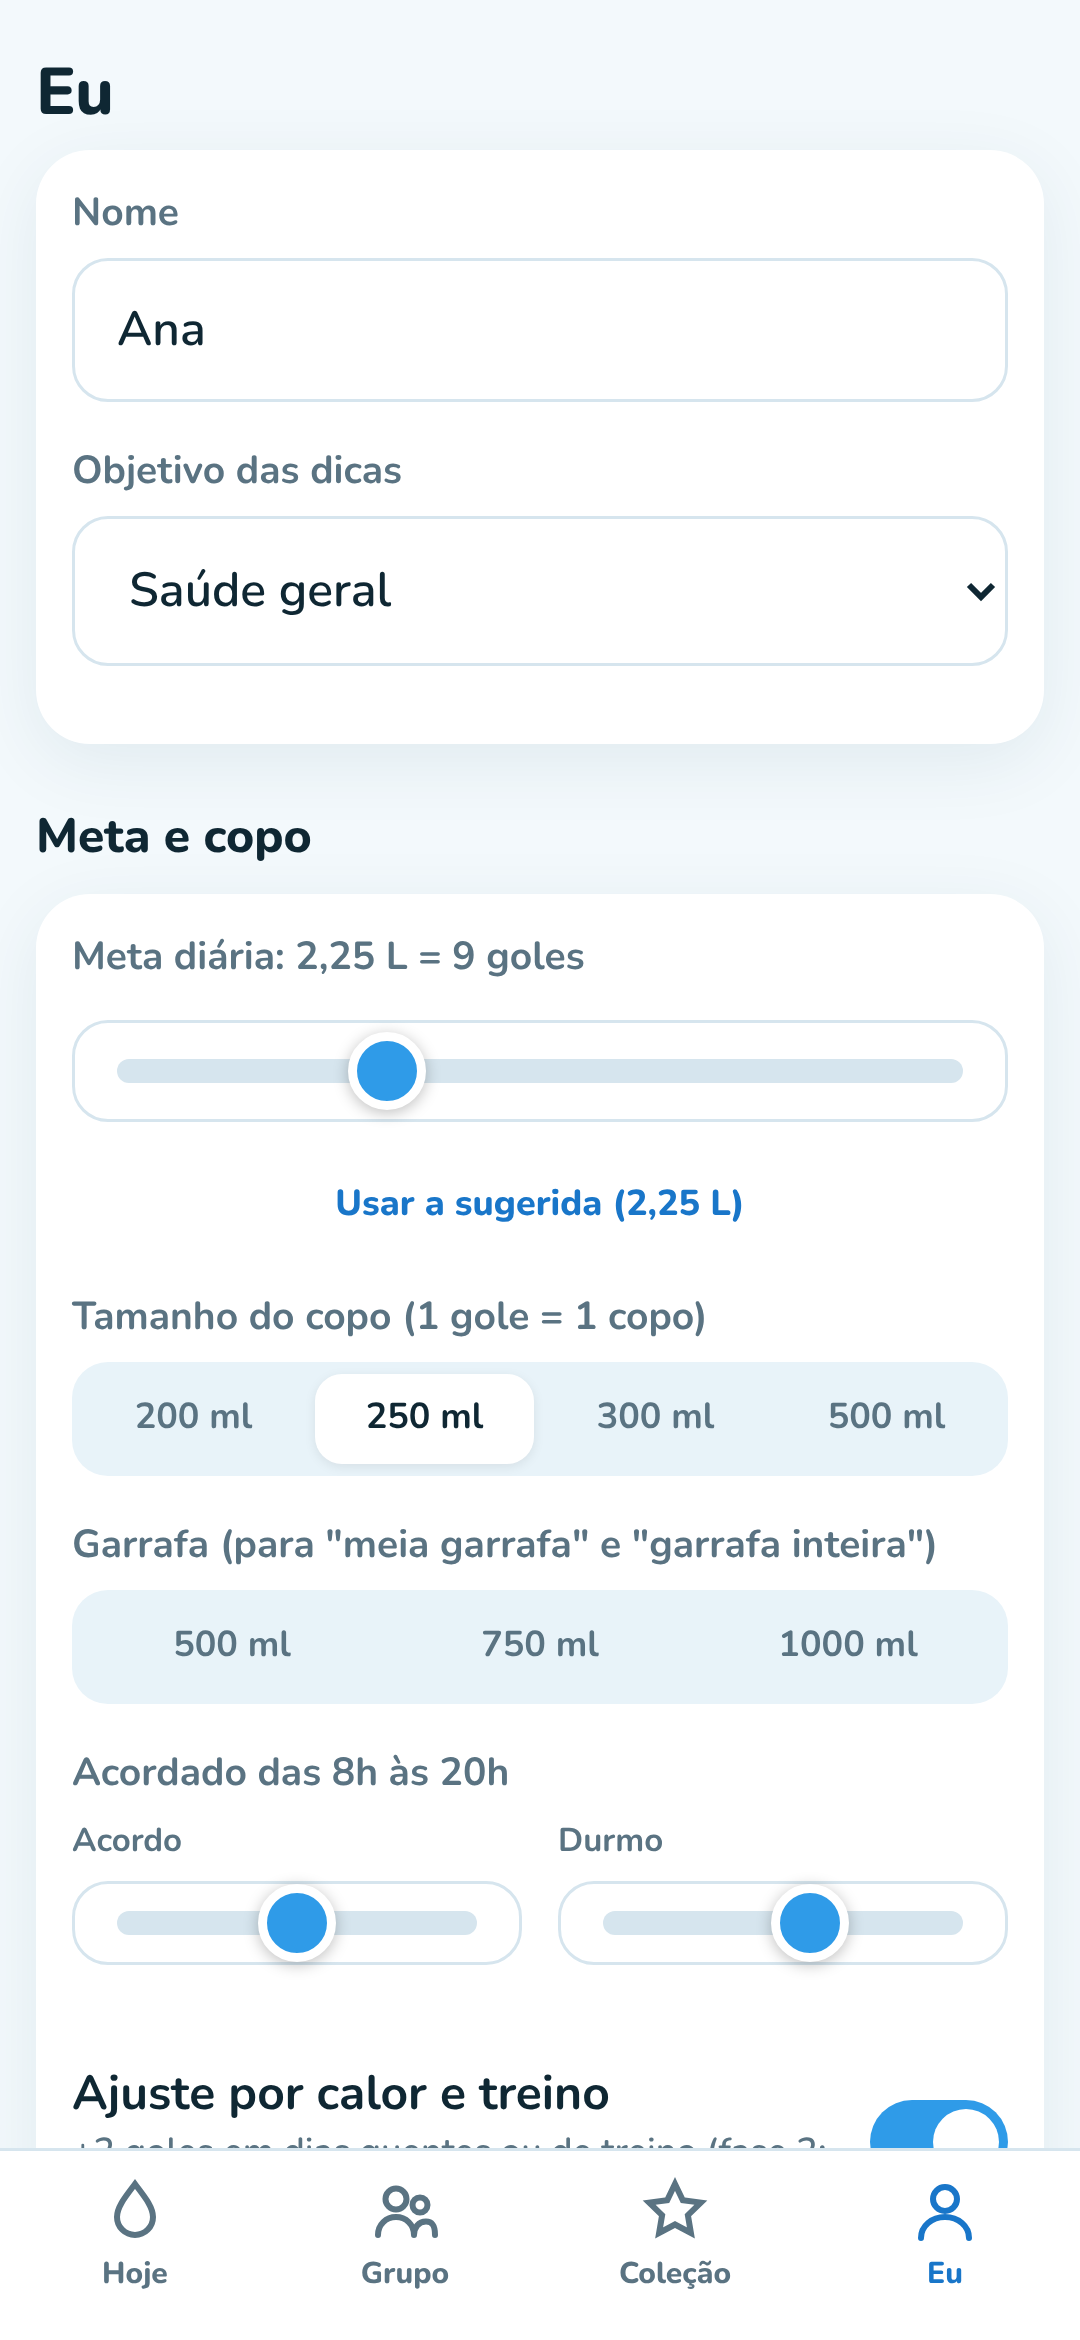
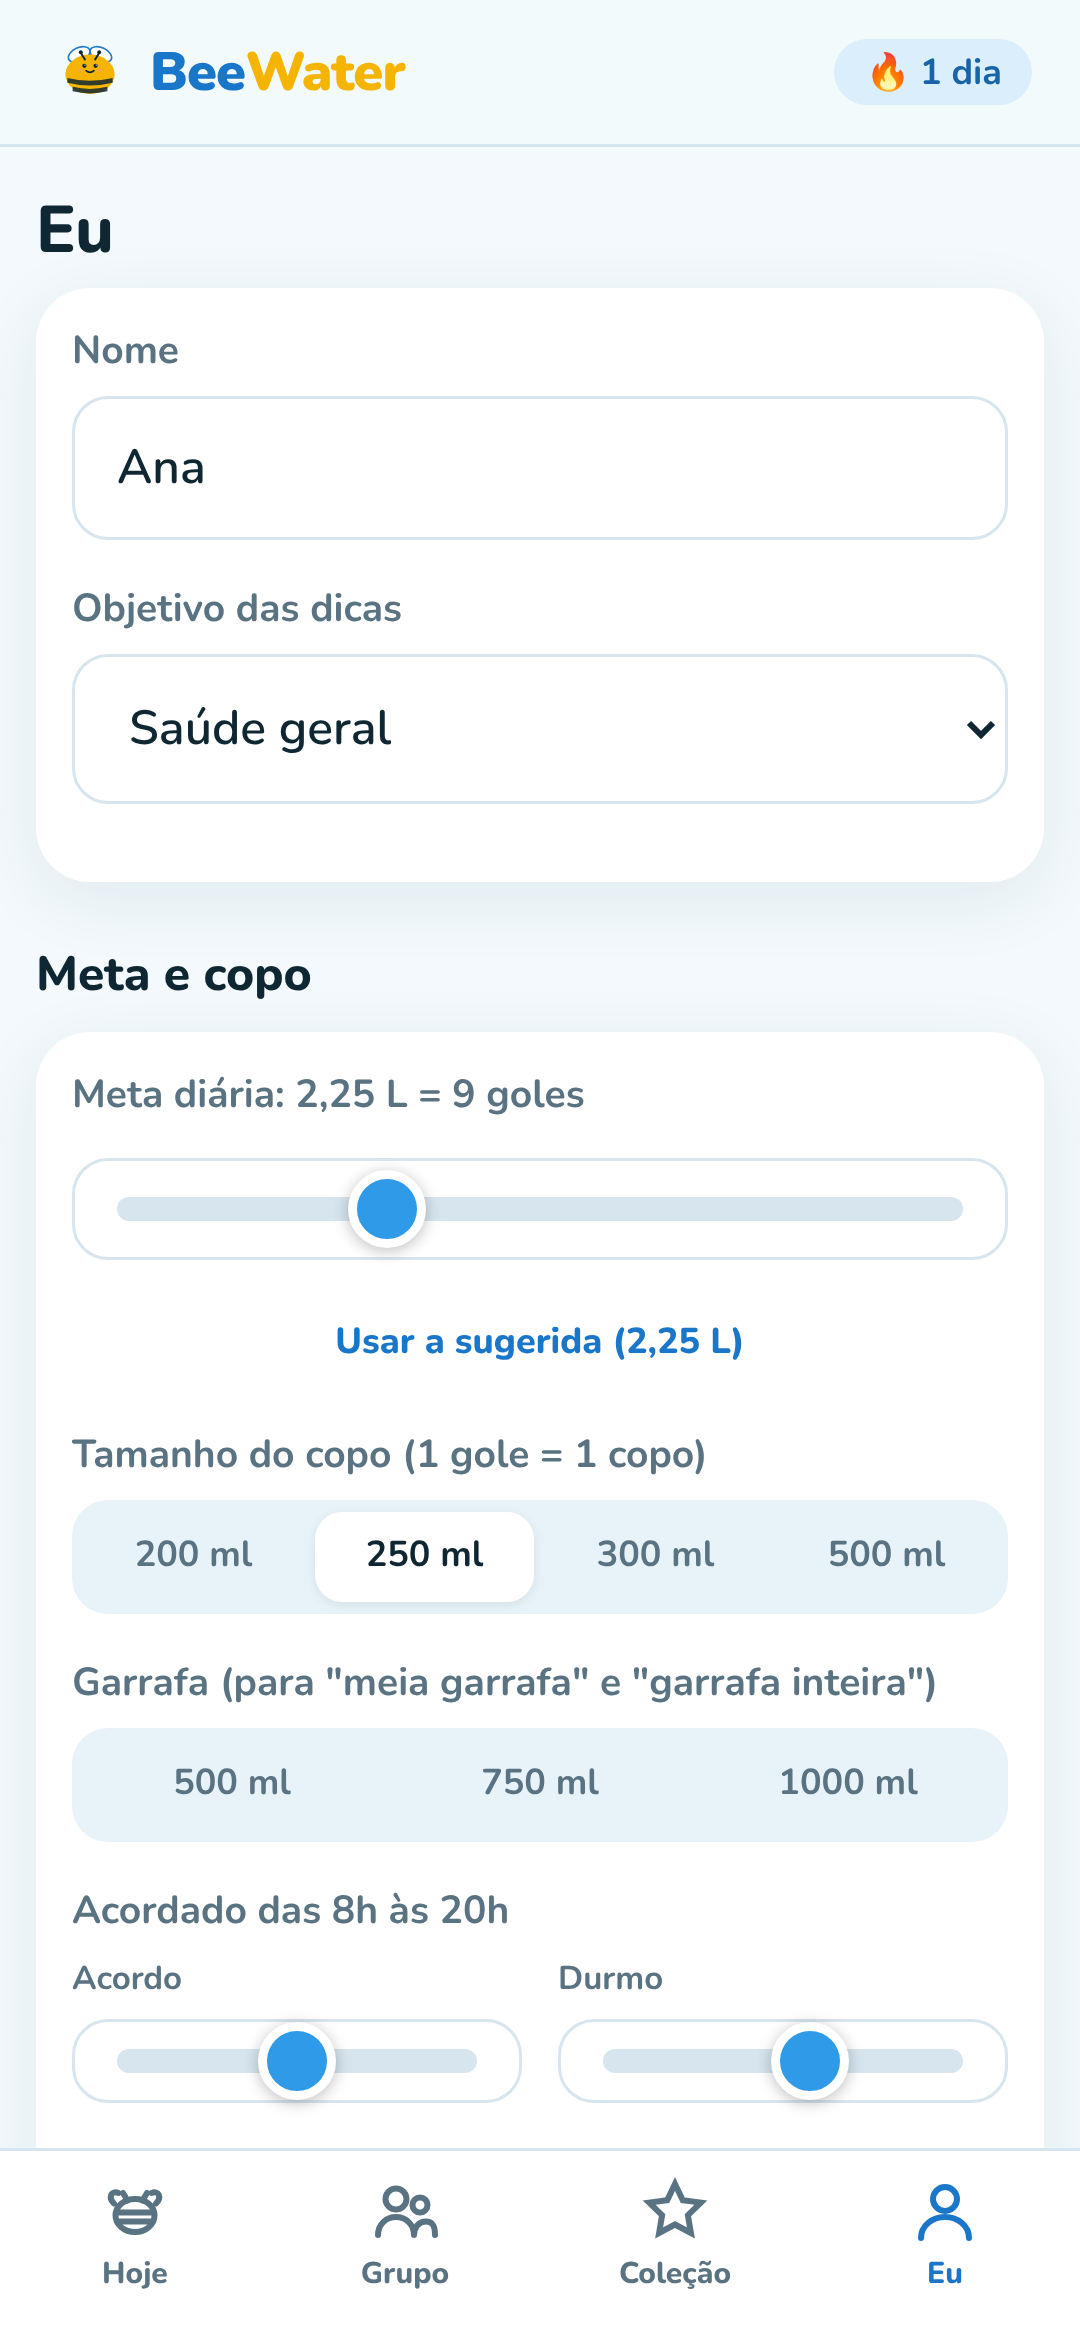
feat: marca Bee em todas as telas (cabeçalho, balões da Bee, aba Hoje, onboarding, celebração)

diff --git a/src/screens/Onboarding.tsx b/src/screens/Onboarding.tsx
@@ -4,6 +4,8 @@ import type { Activity, Objective, Sex } from '../game/types'
 import { golesForGoal, suggestGoalMl } from '../game/rules'
 import { Avatar } from '../components/Avatar'
 import { GROUPS_ENABLED, SOON_LABEL } from '../config'
+import { BeeLogo, BeeMark } from '../components/BeeMark'
+import { BeeSays } from '../components/BeeSays'
 
 export function Onboarding() {
   const complete = useStore((s) => s.completeOnboarding)
@@ -28,8 +30,9 @@ export function Onboarding() {
 
   return (
     <div className="onb app">
-      <div className="logo">Bee Water</div>
-      <div className="muted">Oi, eu sou a Bee. Vou lembrar você de beber água. Um copo, um gole.</div>
+      <div className="logo"><BeeLogo size={34} /></div>
+      {step === 0 && <div className="hero"><BeeMark size={120} /></div>}
+      <BeeSays label="Bee">Oi, eu sou a Bee. Vou lembrar você de beber água. Um copo, um gole.</BeeSays>
       <div className="steps">{[0, 1, 2].map((i) => <i key={i} className={i <= step ? 'on' : ''} />)}</div>
 
       {step === 0 && (
@@ -90,7 +93,7 @@ export function Onboarding() {
         <>
           <h1 style={{ fontSize: 24, margin: '0 0 12px' }}>Com quem você joga?</h1>
           {!GROUPS_ENABLED && <p className="muted small">Grupos, convites e ranking entre amigos chegam na próxima versão.</p>}
-          <div className="avatar-wrap"><Avatar character="bee" fill={0.35} size={120} happy /></div>
+          <div className="avatar-wrap"><Avatar character="bee" fill={0.35} size={110} happy /></div>
           <button className={`option${choice === 'criar' ? ' on' : ''}${GROUPS_ENABLED ? '' : ' soon'}`} disabled={!GROUPS_ENABLED} onClick={() => setChoice('criar')}><b>Criar meu grupo {!GROUPS_ENABLED && <span className="chip warn">{SOON_LABEL}</span>}</b><span>Você recebe um código e um link para convidar amigos.</span></button>
           {choice === 'criar' && GROUPS_ENABLED && <div className="field"><input value={groupName} onChange={(e) => setGroupName(e.target.value)} placeholder={`Turma de ${name.split(' ')[0] || 'amigos'}`} /></div>}
           <button className={`option${choice === 'entrar' ? ' on' : ''}${GROUPS_ENABLED ? '' : ' soon'}`} disabled={!GROUPS_ENABLED} onClick={() => setChoice('entrar')}><b>Entrar com código {!GROUPS_ENABLED && <span className="chip warn">{SOON_LABEL}</span>}</b><span>Alguém te mandou um link ou um código de 6 letras.</span></button>

diff --git a/src/index.css b/src/index.css
@@ -276,3 +276,31 @@ input[type='range']::-moz-range-thumb { width: 20px; height: 20px; border-radius
 .option.soon, .option:disabled { opacity: 0.55; cursor: default; }
 .option b .chip { margin-left: 6px; vertical-align: middle; }
 .soon-block { opacity: 0.45; pointer-events: none; filter: saturate(0.7); }
+
+/* ===== Marca Bee ===== */
+.topbar {
+  position: sticky; top: 0; z-index: 18; display: flex; align-items: center; justify-content: space-between;
+  padding: 10px 16px; padding-top: calc(10px + env(safe-area-inset-top));
+  background: color-mix(in srgb, var(--bg) 88%, transparent); backdrop-filter: blur(8px); -webkit-backdrop-filter: blur(8px);
+  border-bottom: 1px solid var(--line);
+}
+.bee-logo { display: inline-flex; align-items: center; gap: 6px; }
+.bee-wordmark { font-weight: 900; font-size: 18px; letter-spacing: -0.3px; color: var(--water-deep); }
+.bee-wordmark b { color: var(--accent); font-weight: 900; }
+.screen h1 { margin-top: 4px; }
+
+.bee-says { display: flex; gap: 10px; align-items: flex-start; }
+.bee-says-mark { flex-shrink: 0; margin-top: 2px; }
+.bee-bubble {
+  position: relative; background: var(--surface-2); border-radius: 16px; border-top-left-radius: 4px; padding: 10px 12px; flex: 1; min-width: 0;
+}
+.bee-bubble::before { content: ''; position: absolute; left: -7px; top: 10px; border: 7px solid transparent; border-right-color: var(--surface-2); border-left: 0; }
+.bee-label { font-size: 11px; font-weight: 800; color: var(--accent); text-transform: uppercase; letter-spacing: 0.4px; margin-bottom: 2px; }
+.bee-says.quiet .bee-bubble { background: var(--surface); border: 1px solid var(--line); }
+.bee-says.quiet .bee-bubble::before { border-right-color: var(--line); }
+
+.onb .logo { display: flex; align-items: center; gap: 10px; }
+.onb .hero { display: flex; justify-content: center; margin: 4px 0 8px; }
+.celebrate .bee-float { position: absolute; right: 14px; top: 14px; animation: float 2.2s ease-in-out infinite; }
+@keyframes float { 50% { transform: translateY(-6px) rotate(-6deg); } }
+.bee-corner { position: fixed; right: -18px; bottom: calc(var(--tab-h) + 6px); opacity: 0.12; pointer-events: none; z-index: 0; }

diff --git a/src/components/Celebration.tsx b/src/components/Celebration.tsx
@@ -2,6 +2,8 @@ import { useEffect, useMemo } from 'react'
 import { useStore } from '../store/useStore'
 import { liters } from '../game/rules'
 import { tipFor } from '../game/tips'
+import { BeeMark } from './BeeMark'
+import { BeeSays } from './BeeSays'
 
 export function Celebration() {
   const c = useStore((s) => s.celebration)
@@ -21,18 +23,18 @@ export function Celebration() {
     <div className="overlay" onClick={dismiss} role="dialog" aria-live="polite">
       <div className="celebrate" onClick={(e) => e.stopPropagation()}>
         {drops.map((i) => <i key={i} className="drop" style={{ left: `${(i * 37) % 100}%`, animationDelay: `${(i % 6) * 0.12}s` }} />)}
+        <div className="bee-float"><BeeMark size={56} /></div>
         <div className="big">{c.kind === 'cheio' ? '🏆' : c.kind === 'super' ? '💧' : '🌊'}</div>
         <h2>{c.kind === 'cheio' ? 'Gole Cheio!' : c.kind === 'super' ? 'Super Gole!' : 'Gole do Grupo!'}</h2>
         <div className="muted">
           {c.kind === 'cheio' ? `Meta do dia batida com ${liters(c.ml)}.` : c.kind === 'super' ? `${liters(c.ml)} hoje. Mais um litro no bolso.` : 'O reservatório do grupo fechou hoje.'}
           {' '}<b>+{c.points} pts</b>
         </div>
-        <div className="card flat" style={{ marginTop: 16, textAlign: 'left' }}>
-          <div className="small" style={{ fontWeight: 800 }}>Sabia que?</div>
-          <div>{tip.texto}</div>
-          <div className="small muted" style={{ marginTop: 6 }}>
-            <a href={tip.fonte} target="_blank" rel="noreferrer">ver a fonte</a>
-          </div>
+        <div style={{ marginTop: 16, textAlign: 'left' }}>
+          <BeeSays label="A Bee conta">
+            <div>{tip.texto}</div>
+            <div className="small muted" style={{ marginTop: 6 }}><a href={tip.fonte} target="_blank" rel="noreferrer">ver a fonte</a></div>
+          </BeeSays>
         </div>
         <button className="btn" style={{ marginTop: 14 }} onClick={dismiss}>Continuar</button>
       </div>

diff --git a/src/components/BeeMark.tsx b/src/components/BeeMark.tsx
@@ -1,0 +1,28 @@
+/** Marca da Bee: a abelha do ícone, com ou sem a gota, em qualquer tamanho. */
+export function BeeMark({ size = 40, drop = true, className }: { size?: number; drop?: boolean; className?: string }) {
+  return (
+    <svg width={size} height={size} viewBox="0 0 512 512" className={className} aria-hidden="true" focusable="false">
+      <ellipse cx="190" cy="150" rx="70" ry="42" fill="#ffffff" stroke="#1976c9" strokeWidth="10" opacity="0.95" transform="rotate(-25 190 150)" />
+      <ellipse cx="322" cy="150" rx="70" ry="42" fill="#ffffff" stroke="#1976c9" strokeWidth="10" opacity="0.95" transform="rotate(25 322 150)" />
+      <ellipse cx="256" cy="270" rx="150" ry="120" fill="#f5b400" />
+      <path d="M118 292 q138 34 276 0 v30 q-138 34 -276 0z M150 346 q106 26 212 0 v28 q-106 26 -212 0z" fill="#0f2733" opacity="0.85" />
+      <path d="M225 180 l-25 -40 M287 180 l25 -40" stroke="#0f2733" strokeWidth="12" strokeLinecap="round" />
+      <circle cx="200" cy="135" r="12" fill="#0f2733" /><circle cx="312" cy="135" r="12" fill="#0f2733" />
+      <circle cx="222" cy="218" r="13" fill="#0f2733" /><circle cx="290" cy="218" r="13" fill="#0f2733" />
+      <circle cx="226" cy="214" r="4" fill="#fff" /><circle cx="294" cy="214" r="4" fill="#fff" />
+      <path d="M232 248 q24 20 48 0" stroke="#0f2733" strokeWidth="10" fill="none" strokeLinecap="round" />
+      <ellipse cx="196" cy="246" rx="14" ry="8" fill="#ff9aa2" opacity="0.6" /><ellipse cx="316" cy="246" rx="14" ry="8" fill="#ff9aa2" opacity="0.6" />
+      {drop && <path d="M396 330 c22 38 52 66 52 100 a52 52 0 0 1 -104 0 c0 -34 30 -62 52 -100z" fill="#9ad5ff" stroke="#fff" strokeWidth="10" />}
+    </svg>
+  )
+}
+
+/** Logotipo: marca + nome. */
+export function BeeLogo({ size = 28 }: { size?: number }) {
+  return (
+    <span className="bee-logo" aria-label="Bee Water">
+      <BeeMark size={size} drop={false} />
+      <span className="bee-wordmark">Bee<b>Water</b></span>
+    </span>
+  )
+}

diff --git a/src/screens/Hoje.tsx b/src/screens/Hoje.tsx
@@ -5,6 +5,7 @@ import { GoleButton } from '../components/GoleButton'
 import { botMlAt, dateKey, expectedGolesNow, golesForGoal, liters, nextReminder, rankingScore, UNDO_MS } from '../game/rules'
 import { morningMessage, reminderMessage, rhythmLine } from '../game/messages'
 import { tipFor } from '../game/tips'
+import { BeeSays } from '../components/BeeSays'
 import { GROUPS_ENABLED } from '../config'
 
 export function Hoje({ goGroup }: { goGroup: () => void }) {
@@ -84,7 +85,7 @@ export function Hoje({ goGroup }: { goGroup: () => void }) {
           <span className={`chip ${behind === 0 ? 'good' : behind === 1 ? 'warn' : ''}`}>{pct >= 1 ? 'Gole Cheio' : closed ? 'dia encerrado' : behind === 0 ? 'no ritmo' : `${behind} atrás`}</span>
         </div>
         <div className="small muted" style={{ marginTop: 8 }}>{rhythmLine(totalGoles, settings.awakeStart, settings.awakeEnd)}</div>
-        <div style={{ marginTop: 8 }}>{msg}</div>
+        <div style={{ marginTop: 10 }}><BeeSays label="Bee">{msg}</BeeSays></div>
         <div className="small muted" style={{ marginTop: 6 }}>
           {next ? `Próximo lembrete às ${next.getHours()}:${String(next.getMinutes()).padStart(2, '0')}` : 'Lembretes desligados'} · streak {streak} {streak === 1 ? 'dia' : 'dias'}
         </div>
@@ -101,9 +102,10 @@ export function Hoje({ goGroup }: { goGroup: () => void }) {
       )}
 
       <div className="card flat">
-        <div className="small" style={{ fontWeight: 800 }}>Sabia que?</div>
-        <div>{tip.texto}</div>
-        <div className="small muted" style={{ marginTop: 6 }}><a href={tip.fonte} target="_blank" rel="noreferrer">ver a fonte</a></div>
+        <BeeSays label="A Bee conta" tone="quiet">
+          <div>{tip.texto}</div>
+          <div className="small muted" style={{ marginTop: 6 }}><a href={tip.fonte} target="_blank" rel="noreferrer">ver a fonte</a></div>
+        </BeeSays>
       </div>
 
       {toast && <div className="toast">{toast}</div>}

diff --git a/src/components/TabBar.tsx b/src/components/TabBar.tsx
@@ -1,7 +1,7 @@
 export type Tab = 'hoje' | 'grupo' | 'colecao' | 'eu'
 
 const ICONS: Record<Tab, React.ReactElement> = {
-  hoje: <svg viewBox="0 0 24 24" fill="none" stroke="currentColor" strokeWidth="2" strokeLinecap="round"><path d="M12 3c3 4 6 7.5 6 11a6 6 0 0 1-12 0c0-3.5 3-7 6-11z" /></svg>,
+  hoje: <svg viewBox="0 0 24 24" fill="none" stroke="currentColor" strokeWidth="2" strokeLinecap="round" strokeLinejoin="round"><ellipse cx="12" cy="13.5" rx="6.5" ry="5.5" /><path d="M6.2 12.5h11.6M6.8 15.5h10.4" /><path d="M9.5 8.5 8 6M14.5 8.5 16 6" /><path d="M5 9.5c-2-2-1-4.5 1.5-3.5M19 9.5c2-2 1-4.5-1.5-3.5" /></svg>,
   grupo: <svg viewBox="0 0 24 24" fill="none" stroke="currentColor" strokeWidth="2" strokeLinecap="round"><circle cx="9" cy="8" r="3.5" /><circle cx="17" cy="10" r="2.5" /><path d="M3 20c0-3.5 2.7-6 6-6s6 2.5 6 6M15 20c0-2.5 1.5-4.5 4-4.5s3 2 3 4.5" /></svg>,
   colecao: <svg viewBox="0 0 24 24" fill="none" stroke="currentColor" strokeWidth="2" strokeLinecap="round"><path d="M12 3l2.6 5.4 6 .8-4.3 4.2 1 5.9L12 16.5 6.7 19.3l1-5.9L3.4 9.2l6-.8z" /></svg>,
   eu: <svg viewBox="0 0 24 24" fill="none" stroke="currentColor" strokeWidth="2" strokeLinecap="round"><circle cx="12" cy="8" r="4" /><path d="M4 21c0-4 3.6-7 8-7s8 3 8 7" /></svg>,

diff --git a/src/screens/GrupoPreview.tsx b/src/screens/GrupoPreview.tsx
@@ -1,5 +1,6 @@
 import { Avatar } from '../components/Avatar'
 import { SOON_LABEL } from '../config'
+import { BeeSays } from '../components/BeeSays'
 
 const DEMO = [
   { name: 'Ana', character: 'baleia', pct: 1.0, l: '2,00 L' },
@@ -14,8 +15,7 @@ export function GrupoPreview() {
     <div className="screen">
       <div className="row between"><h1>Grupo</h1><span className="chip warn">{SOON_LABEL}</span></div>
       <div className="card">
-        <b>Jogar com amigos chega na próxima versão.</b>
-        <div className="muted small" style={{ marginTop: 4 }}>Você vai criar um grupo, convidar por link e disputar o Maior Gole do Dia, da Semana e Geral. Enquanto isso, seus goles já contam: tudo fica guardado para quando os grupos abrirem.</div>
+        <BeeSays label="Bee"><b>Jogar com amigos chega na próxima versão.</b> Você vai criar um grupo, convidar por link e disputar o Maior Gole do Dia, da Semana e Geral. Enquanto isso, seus goles já contam: tudo fica guardado para quando os grupos abrirem.</BeeSays>
       </div>
       <div className="soon-block" aria-hidden="true">
         <div className="row" style={{ marginBottom: 12 }}>

diff --git a/src/components/BeeSays.tsx b/src/components/BeeSays.tsx
@@ -1,0 +1,15 @@
+import type { ReactNode } from 'react'
+import { BeeMark } from './BeeMark'
+
+/** A Bee fala: balão de mensagem com a abelha ao lado. */
+export function BeeSays({ children, label, size = 46, tone = 'normal' }: { children: ReactNode; label?: string; size?: number; tone?: 'normal' | 'quiet' }) {
+  return (
+    <div className={`bee-says${tone === 'quiet' ? ' quiet' : ''}`}>
+      <div className="bee-says-mark"><BeeMark size={size} drop={false} /></div>
+      <div className="bee-bubble">
+        {label && <div className="bee-label">{label}</div>}
+        <div>{children}</div>
+      </div>
+    </div>
+  )
+}

diff --git a/src/App.tsx b/src/App.tsx
@@ -7,6 +7,7 @@ import { Colecao } from './screens/Colecao'
 import { Eu } from './screens/Eu'
 import { TabBar, type Tab } from './components/TabBar'
 import { Celebration } from './components/Celebration'
+import { TopBar } from './components/TopBar'
 import { useLocalReminders } from './pwa/reminders'
 import { useNativeApp } from './native/useNative'
 
@@ -45,6 +46,7 @@ export default function App() {
 
   return (
     <div className="app">
+      <TopBar />
       {tab === 'hoje' && <Hoje goGroup={() => setTab('grupo')} />}
       {tab === 'grupo' && <Grupo />}
       {tab === 'colecao' && <Colecao />}

diff --git a/src/components/TopBar.tsx b/src/components/TopBar.tsx
@@ -1,0 +1,12 @@
+import { BeeLogo } from './BeeMark'
+import { useStreak } from '../store/useStore'
+
+export function TopBar() {
+  const streak = useStreak()
+  return (
+    <header className="topbar">
+      <BeeLogo />
+      <span className="chip water" title="Dias seguidos com pelo menos metade da meta">🔥 {streak} {streak === 1 ? 'dia' : 'dias'}</span>
+    </header>
+  )
+}
